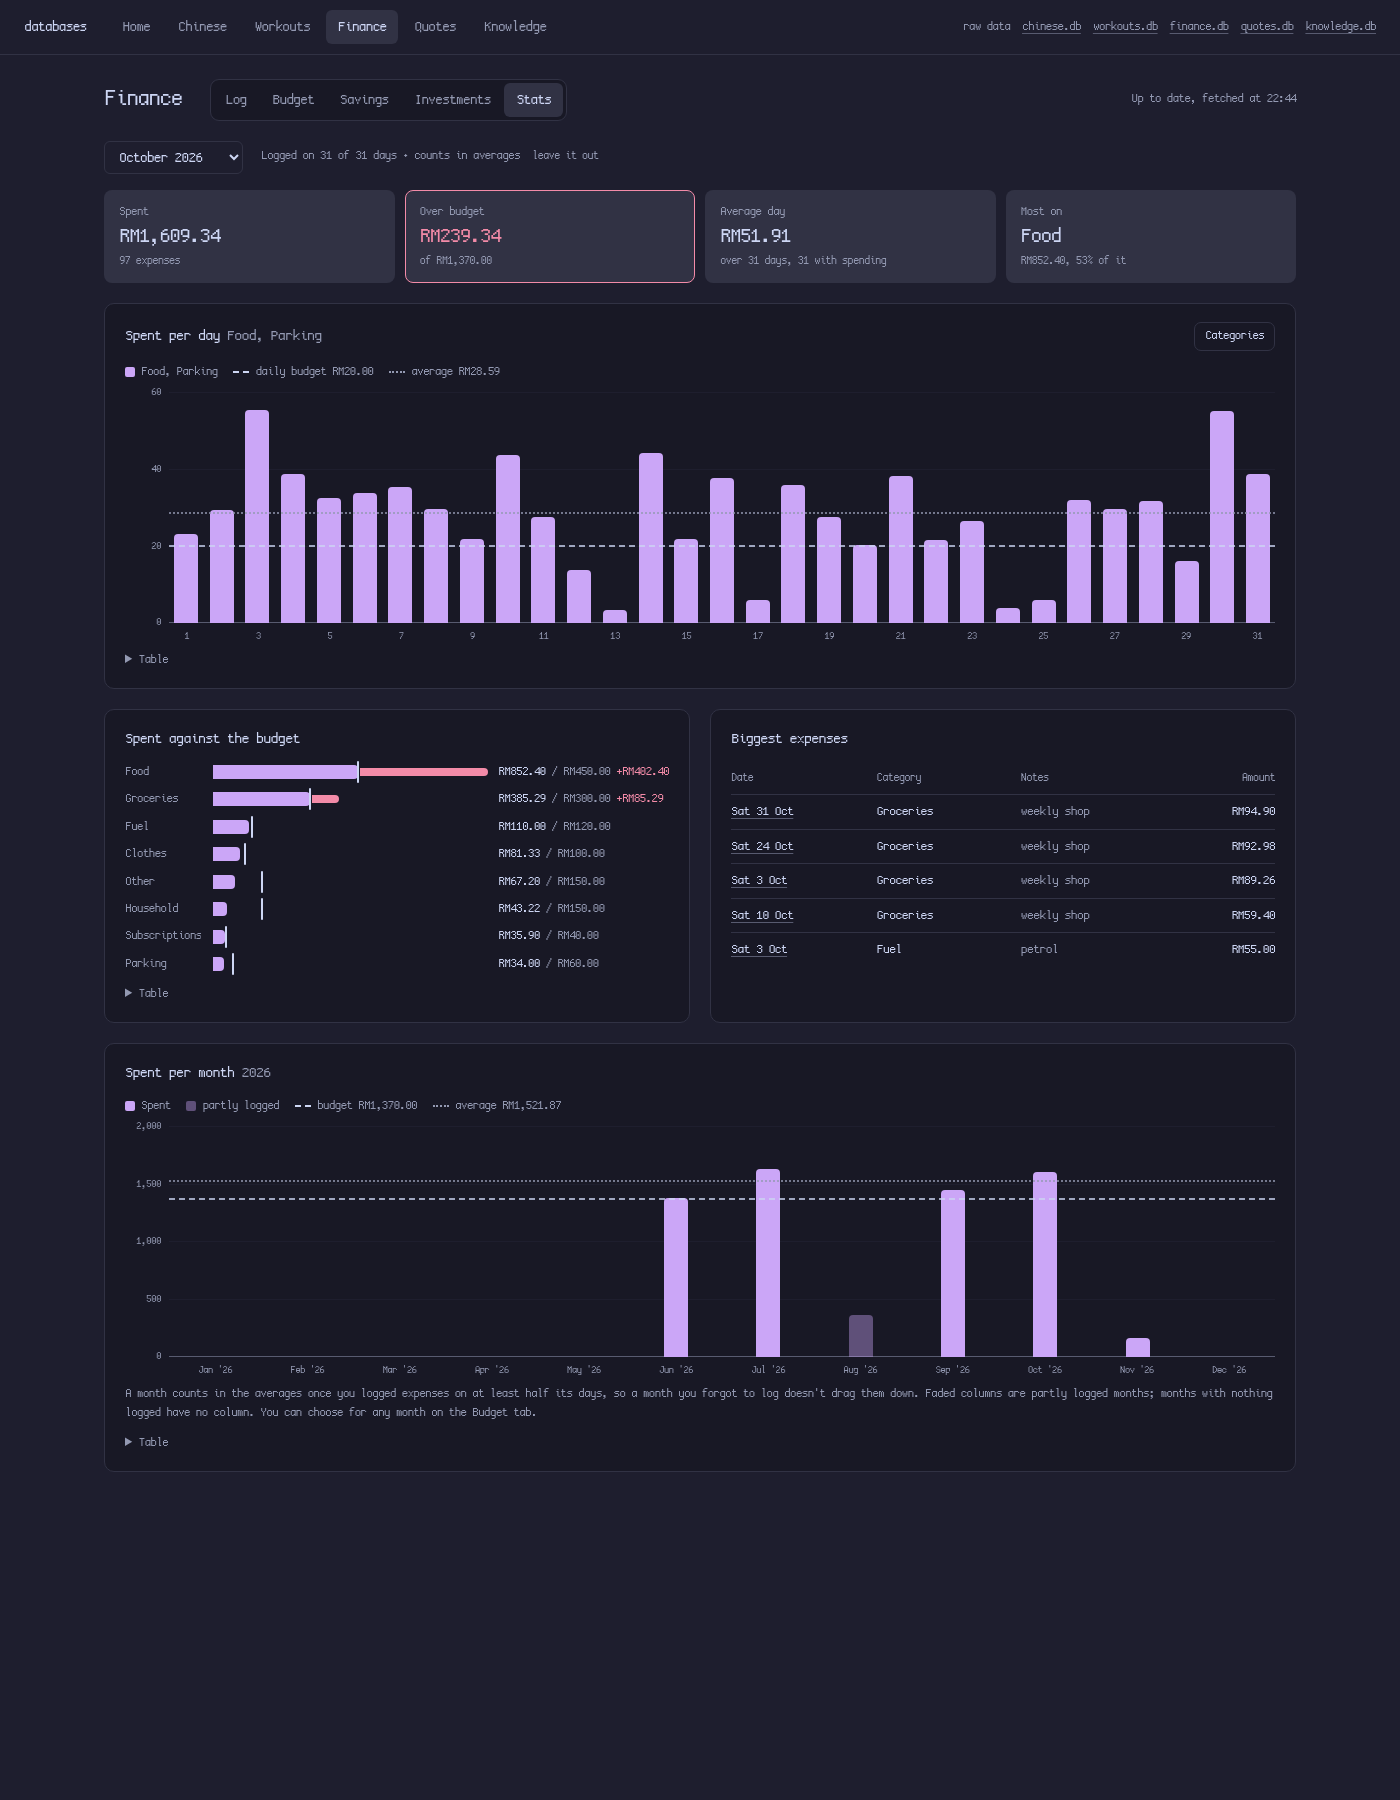
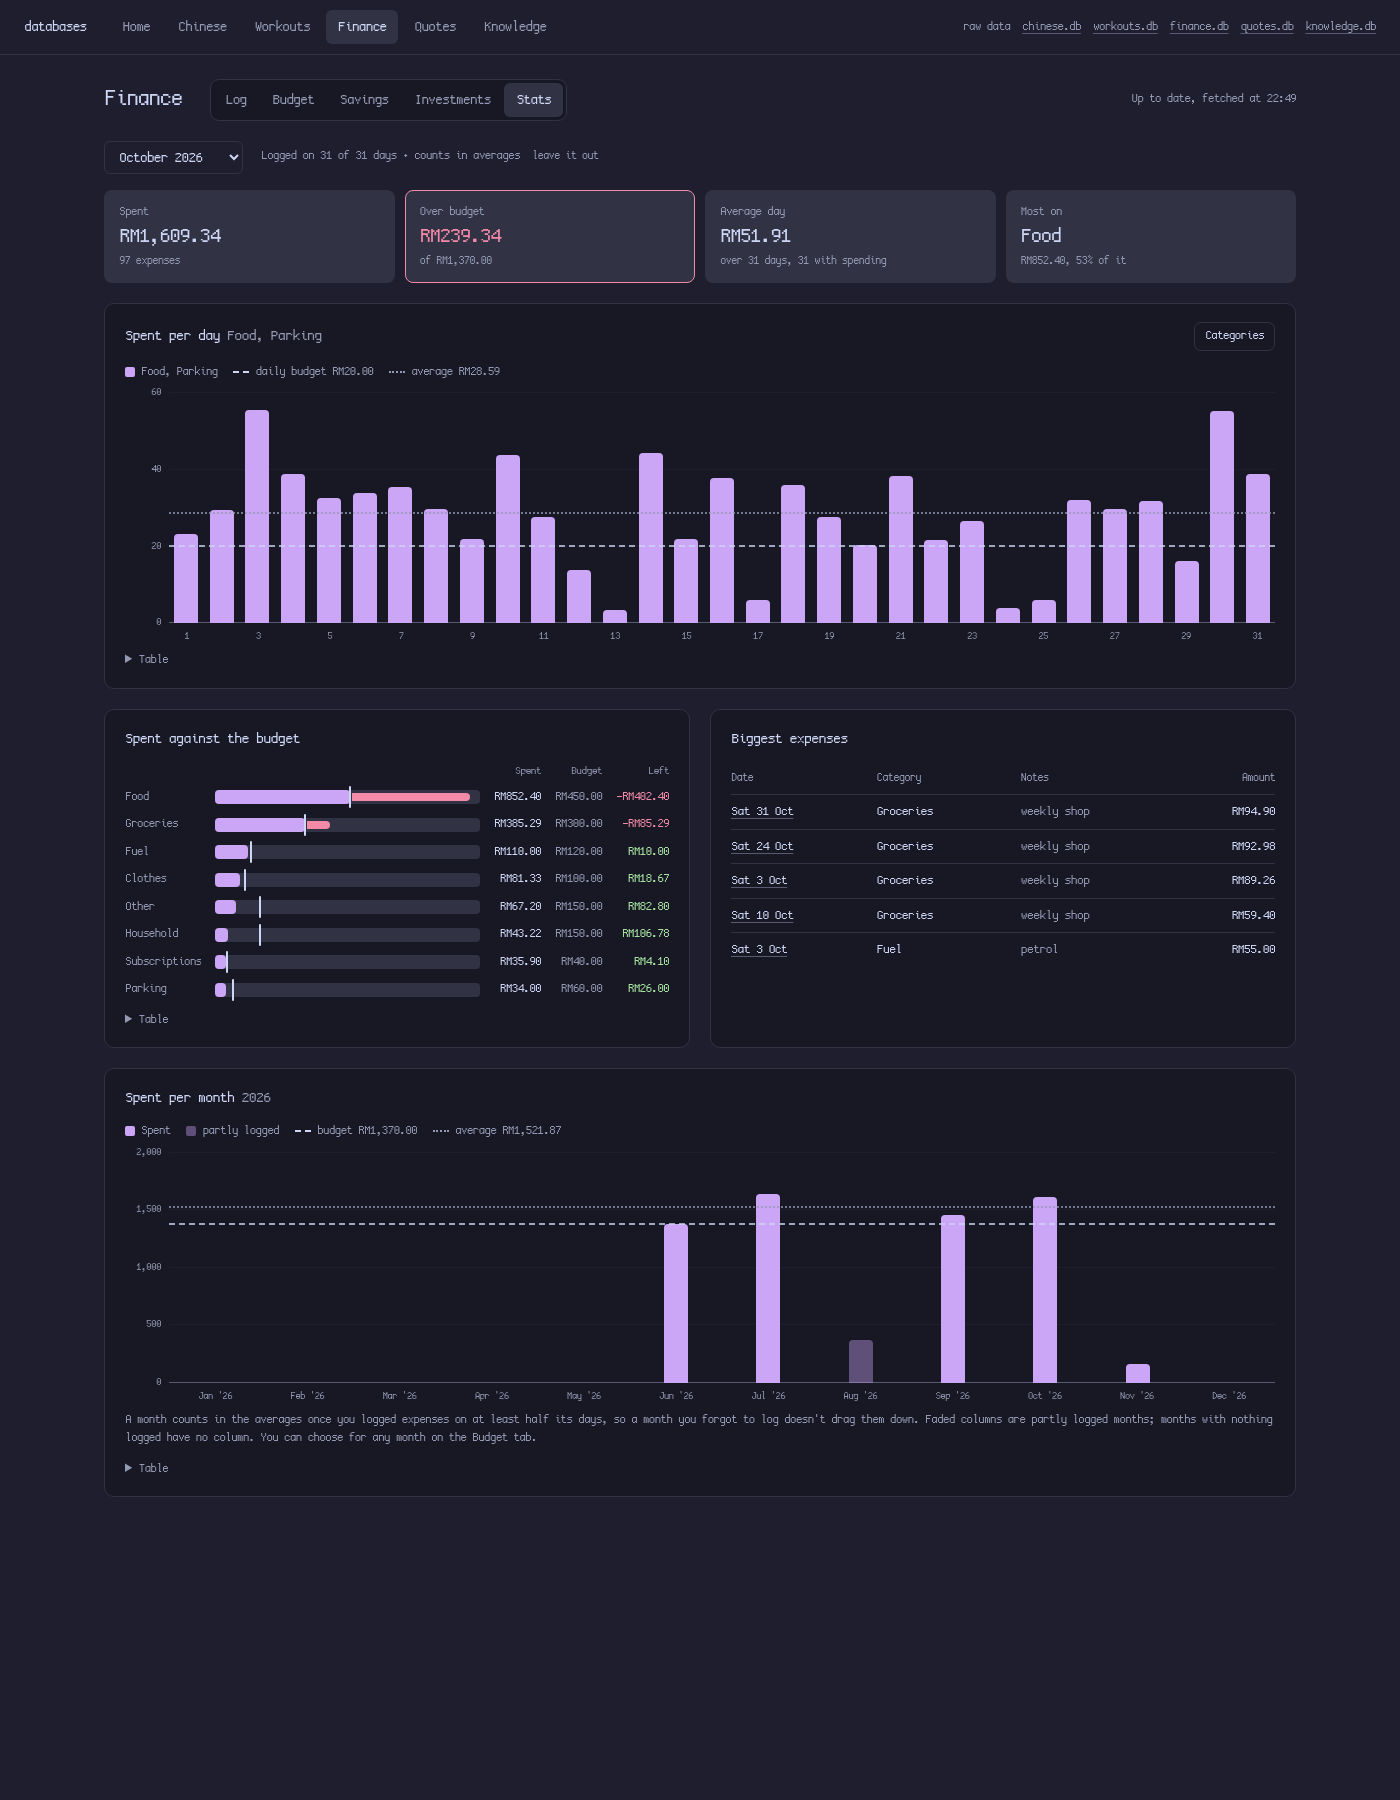
Stats: budget bars on a track, numbers in columns
Each category's bar in "Spent against the budget" sits on a track, so the
budget line has something to sit on, with a little room at the end so the
longest bar stays inside it. Spent, budget and what's left (green) or over
(red) are right-aligned columns under small headings.

diff --git a/static/app.css b/static/app.css
@@ -554,15 +554,17 @@ tbody tr:last-child td { border-bottom: 0; }
 .legend .line-key.dotted { border-top: 2px dotted var(--muted); }
 
 /* Bullets: a bar per category against its budget (the tick); past it, the bar turns red */
-.bullets { display: grid; grid-template-columns: minmax(5em, max-content) minmax(80px, 1fr) max-content; align-items: center; gap: 9px 12px; }
+/* Spent against the budget: a bar on a track per category, then the numbers in columns */
+.bullets { display: grid; grid-template-columns: minmax(5em, max-content) minmax(80px, 1fr) repeat(3, max-content); align-items: center; gap: 9px 14px; }
 .bullet { display: contents; }
 .bullet > .hbar-label { text-align: left; }
-.bullet-track { position: relative; height: 14px; }
-.bullet-fill { position: absolute; left: 0; top: 0; bottom: 0; background: var(--spending); border-radius: 0 4px 4px 0; }
+.bullet-head { font-size: 0.75rem; color: var(--muted); text-align: right; }
+.bullet-track { position: relative; height: 14px; border-radius: 4px; background: var(--surface-2); }
+.bullet-fill { position: absolute; left: 0; top: 0; bottom: 0; background: var(--spending); border-radius: 4px; }
 /* Past the budget: red, and thinner, so it's told apart from the purple by its shape too */
 .bullet-over { position: absolute; top: 3px; bottom: 3px; background: var(--danger); border-radius: 0 4px 4px 0; margin-left: 2px; }
 .bullet-target { position: absolute; top: -4px; bottom: -4px; width: 2px; margin-left: -1px; background: var(--text); border-radius: 1px; }
-.bullet-val { font-size: 0.85rem; font-variant-numeric: tabular-nums; white-space: nowrap; }
+.bullet-val { font-size: 0.85rem; font-variant-numeric: tabular-nums; white-space: nowrap; text-align: right; }
 .bullet:hover .bullet-fill, .bullet:focus .bullet-fill { filter: brightness(1.2); }
 
 .month-status { display: inline-flex; flex-wrap: wrap; align-items: baseline; gap: 4px 8px; font-size: 0.85rem; margin-left: 8px; }

diff --git a/plugins/app.py b/plugins/app.py
@@ -400,32 +400,39 @@ def combo(labels, tips, bars=(), lines=(), refs=(), fmt=num, faded_label="", est
 
 
 def bullets(items, fmt=num, untargeted="not in budget"):
-    """Ranked horizontal bars, each against its own target: items are (label, value, target
-    or None, share of the total). Past its target a bar turns red and says by how much.
+    """Ranked horizontal bars on a track, each against its own target: items are (label,
+    value, target or None, share of the total). Past its target a bar turns red. The numbers
+    sit in columns: the value, its target, and what's left of it (green) or over it (red).
     A bar without a target says `untargeted`, or its share when that's None."""
-    scale = max([0, *(v for _, v, _, _ in items), *(t or 0 for _, _, t, _ in items)]) or 1
+    # A little room at the end, so the longest bar stops short of the end of its track
+    scale = 1.04 * max([0, *(v for _, v, _, _ in items), *(t or 0 for _, _, t, _ in items)]) or 1
+    targets = any(t is not None for _, _, t, _ in items)
 
     def pct(v):
         return f"{100 * v / scale:.2f}%"
 
-    out = []
+    out = ['<span></span><span></span><span class="bullet-head">Spent</span><span class="bullet-head">Budget</span>'
+           '<span class="bullet-head">Left</span>'] if targets else []
     for label, v, target, share in items:
         over = v - target if target is not None and v > target else 0
         if target is None:
             detail = untargeted or ""
-            note = f'<span class="muted"> · {escape(untargeted) if untargeted else f"{share:.0%}"}</span>'
+            second, third = escape(untargeted) if untargeted else f"{share:.0%}", ""
         elif over:
-            note, detail = f'<span class="muted"> / {fmt(target)}</span> <b class="over-text">+{fmt(over)}</b>', f"{fmt(over)} over a budget of {fmt(target)}"
+            detail = f"{fmt(over)} over a budget of {fmt(target)}"
+            second, third = fmt(target), f'<b class="over-text">-{fmt(over)}</b>'
         else:
-            note, detail = f'<span class="muted"> / {fmt(target)}</span>', f"{fmt(target - v)} left of {fmt(target)}"
+            detail = f"{fmt(target - v)} left of {fmt(target)}"
+            second, third = fmt(target), f'<span class="up">{fmt(target - v)}</span>'
         bar = f'<span class="bullet-fill" style="width:{pct(v - over)}"></span>'
         if over:
-            bar += f'<span class="bullet-over" style="left:{pct(target)};width:{pct(over)}"></span>'
+            bar += f'<span class="bullet-over" style="left:{pct(target)};width:calc({pct(over)} - 2px)"></span>'
         if target is not None:
             bar += f'<i class="bullet-target" style="left:{pct(target)}"></i>'
         out.append(f'<div class="bullet" {_tip(fmt(v), chr(10).join(filter(None, [label, detail, f"{share:.0%} of the spending"])))}>'
                    f'<span class="hbar-label" title="{escape(label)}">{escape(label)}</span>'
-                   f'<span class="bullet-track">{bar}</span><span class="bullet-val">{fmt(v)}{note}</span></div>')
+                   f'<span class="bullet-track">{bar}</span><span class="bullet-val">{fmt(v)}</span>'
+                   f'<span class="bullet-val muted">{second}</span><span class="bullet-val">{third}</span></div>')
     return Markup(f'<div class="bullets">{"".join(out)}</div>')
 
 
